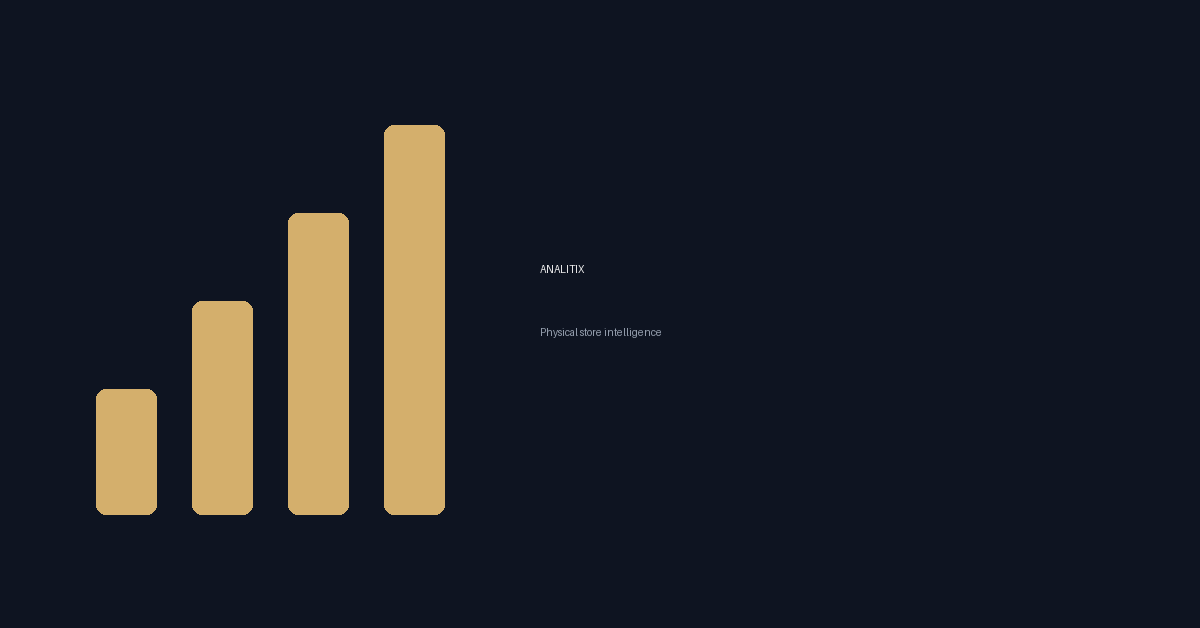
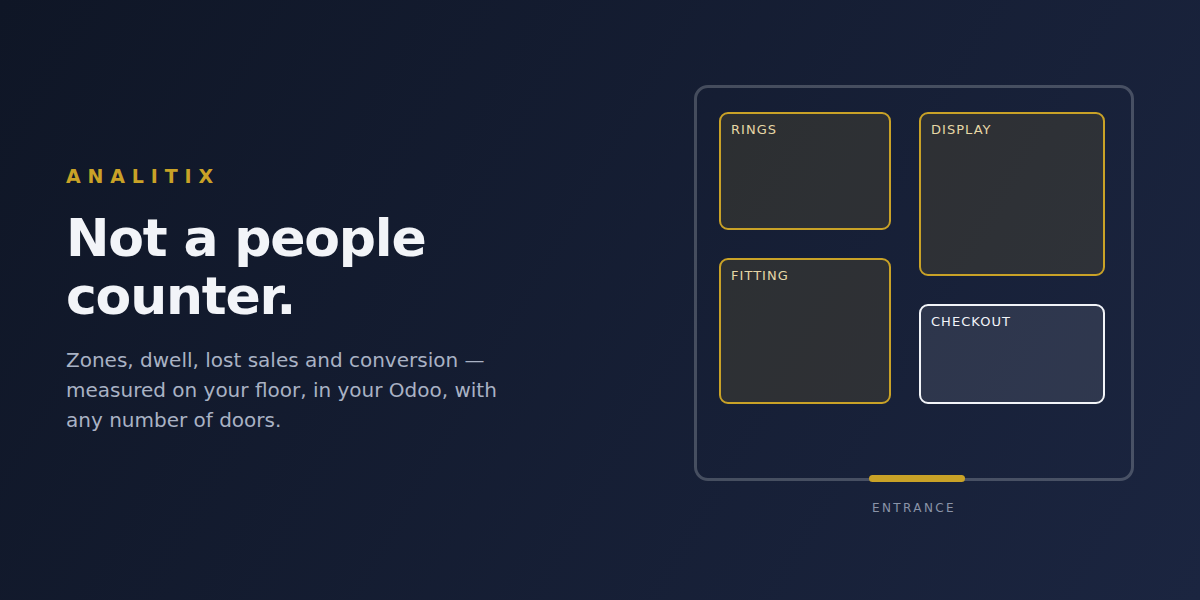
feat(analitix): identidad visual definitiva y precio de lista (tarea 981)
El usuario eligio el ICONO A (el umbral: un arco de puerta con la linea de
conteo cruzando el vano — literalmente lo que mide el producto) y el BANNER 2
(el plano del piso con sus zonas, que muestra el producto en vez de
describirlo).

Las fuentes quedan en tools/brand/ como HTML+CSS, no como un binario de diseno
que solo abre una maquina: se renderizan a PNG con Chromium al tamano final
(512x512 y 1200x600), sin escalar, para que la tipografia no se ensucie. Las
propuestas descartadas se quedan en el archivo a proposito: cuando alguien
pregunte por que se ve asi, las alternativas que se consideraron son la
respuesta.

PRECIO: 499 USD de licencia unica en apps.odoo.com. Referencias del propio
store, categoria Punto de Venta: las suites mas grandes van entre 304 y 500
USD, y una busqueda de «footfall» ahi devuelve UNA sola app — la nuestra,
gratuita. No hay competencia en la categoria.
El negocio recurrente NO esta en ese precio: esta en el plan por tienda de
analitix.store, que es un control de configuracion y no una verificacion de
licencia, para que un problema de cobranza jamas pueda apagarle las camaras a
un cliente. Los datos demo se alinean a las tarifas propuestas (1,890 y 2,890
MXN/mes) para que el informe de ROI cuente una sola historia.

227/227 pruebas en verde en instalacion limpia. Paquete: 134 archivos, 7.0 MB.

diff --git a/analitix/tools/brand/banners.html b/analitix/tools/brand/banners.html
@@ -1,0 +1,114 @@
+<!DOCTYPE html>
+<html><head><meta charset="utf-8"/>
+<style>
+  * { margin:0; padding:0; box-sizing:border-box; }
+  body { background:#fff; font-family:"Helvetica Neue",Arial,sans-serif; }
+  .banner { width:1200px; height:600px; position:relative; overflow:hidden;
+            display:flex; }
+
+  .brand { font-size:19px; letter-spacing:.36em; text-transform:uppercase;
+           font-weight:700; }
+
+  /* ---------------- 1: the number that sells it ------------------- */
+  #b1 { background:#111726; color:#F2F4F8; flex-direction:column;
+        justify-content:space-between; padding:66px 80px 60px; }
+  #b1 .brand { color:#C9A227; }
+  #b1 h1 { font-size:56px; line-height:1.12; margin:24px 0 18px; font-weight:800;
+           letter-spacing:-1.4px; max-width:900px; }
+  #b1 h1 em { font-style:normal; color:#C9A227; }
+  #b1 p { font-size:23px; color:#A9B2C4; max-width:780px; line-height:1.45; }
+  #b1 .stats { display:flex; gap:70px; }
+  #b1 .stat .n { font-size:30px; font-weight:800; color:#C9A227; line-height:1.2; }
+  #b1 .stat .l { font-size:15px; color:#8A94A8; text-transform:uppercase;
+                 letter-spacing:.13em; margin-top:6px; }
+  #b1 .rule { position:absolute; right:-170px; top:-160px; width:600px; height:600px;
+              border:44px solid rgba(201,162,39,.13); border-radius:50%; }
+  #b1 .top { position:relative; z-index:2; }
+
+  /* ---------------- 2: the floor, drawn ---------------------------- */
+  #b2 { background:linear-gradient(120deg,#0F1626 0%,#1B2540 100%); color:#F2F4F8;
+        align-items:center; padding:0 66px; gap:52px; }
+  #b2 .left { flex:1; }
+  #b2 .brand { color:#C9A227; margin-bottom:22px; }
+  #b2 h1 { font-size:52px; line-height:1.12; font-weight:800; letter-spacing:-1.2px; }
+  #b2 p { font-size:20px; color:#A9B2C4; margin-top:20px; line-height:1.5;
+          max-width:460px; }
+  #b2 .planwrap { width:440px; flex:none; }
+  #b2 .plan { position:relative; height:396px;
+              border:3px solid rgba(242,244,248,.22); border-radius:14px; }
+  #b2 .zone { position:absolute; border-radius:9px; border:2px solid #C9A227;
+              background:rgba(201,162,39,.13); font-size:13px; color:#E7D7A6;
+              padding:8px 10px; letter-spacing:.08em; }
+  #b2 .z1 { left:22px; top:24px; width:172px; height:118px; }
+  #b2 .z2 { left:222px; top:24px; width:186px; height:164px; }
+  #b2 .z3 { left:22px; top:170px; width:172px; height:146px; }
+  #b2 .z4 { left:222px; top:216px; width:186px; height:100px;
+            border-color:#F2F4F8; background:rgba(242,244,248,.10); color:#F2F4F8; }
+  #b2 .door { position:absolute; left:172px; bottom:-4px; width:96px; height:7px;
+              background:#C9A227; border-radius:4px; }
+  #b2 .doorlbl { margin-top:20px; text-align:center; font-size:12px; color:#8A94A8;
+                 letter-spacing:.2em; text-transform:uppercase; }
+
+  /* ---------------- 3: quiet and typographic ----------------------- */
+  #b3 { background:#F6F3EC; color:#111726; flex-direction:column;
+        justify-content:center; padding:0 92px 16px; }
+  #b3 .brand { color:#8A6E27; }
+  #b3 h1 { font-size:56px; line-height:1.1; margin:26px 0 22px; font-weight:800;
+           letter-spacing:-1.4px; max-width:940px; }
+  #b3 p { font-size:22px; color:#4A5265; max-width:780px; line-height:1.5; }
+  #b3 .chips { display:flex; gap:13px; margin-top:38px; }
+  #b3 .chip { border:2px solid #C9A227; color:#8A6E27; border-radius:999px;
+              padding:9px 20px; font-size:15px; font-weight:600; }
+  #b3 .bar { position:absolute; left:0; bottom:0; height:16px; width:100%;
+             background:linear-gradient(90deg,#C9A227 0%,#8A6E27 100%); }
+</style></head>
+<body>
+
+<div class="banner" id="b1">
+  <div class="rule"></div>
+  <div class="top">
+    <div class="brand">Analitix</div>
+    <h1>Your POS says what you sold.<br/>This says <em>who you didn't sell to</em>.</h1>
+    <p>Store intelligence on Odoo: visitors, conversion, and walk-outs spotted
+       while there is still time to do something about them.</p>
+  </div>
+  <div class="stats">
+    <div class="stat"><div class="n">Conversion</div><div class="l">tickets ÷ visitors</div></div>
+    <div class="stat"><div class="n">Walk-outs</div><div class="l">seen, and rescued</div></div>
+    <div class="stat"><div class="n">No images</div><div class="l">ever stored</div></div>
+  </div>
+</div>
+
+<div class="banner" id="b2">
+  <div class="left">
+    <div class="brand">Analitix</div>
+    <h1>Not a people counter.</h1>
+    <p>Zones, dwell, lost sales and conversion — measured on your floor, in your
+       Odoo, with any number of doors.</p>
+  </div>
+  <div class="planwrap">
+    <div class="plan">
+      <div class="zone z1">RINGS</div>
+      <div class="zone z2">DISPLAY</div>
+      <div class="zone z3">FITTING</div>
+      <div class="zone z4">CHECKOUT</div>
+      <div class="door"></div>
+    </div>
+    <div class="doorlbl">Entrance</div>
+  </div>
+</div>
+
+<div class="banner" id="b3">
+  <div class="brand">Analitix</div>
+  <h1>Eleven people waited.<br/>Nine were never spoken to.</h1>
+  <p>Physical store intelligence for Odoo 19 — conversion against POS, lost-sale
+     alerts, and a monthly report the owner actually reads.</p>
+  <div class="chips">
+    <div class="chip">Any number of doors</div>
+    <div class="chip">No image ever stored</div>
+    <div class="chip">Edge, not cloud</div>
+  </div>
+  <div class="bar"></div>
+</div>
+
+</body></html>

diff --git a/analitix/tools/brand/icons.html b/analitix/tools/brand/icons.html
@@ -1,0 +1,58 @@
+<!DOCTYPE html>
+<html><head><meta charset="utf-8"/>
+<style>
+  * { margin:0; padding:0; box-sizing:border-box; }
+  body { background:#fff; }
+  .icon { width:512px; height:512px; position:relative; overflow:hidden;
+          font-family:"Helvetica Neue",Arial,sans-serif; }
+
+  /* ---- A: doorway + threshold line -------------------------------- */
+  #a { background:#111726; }
+  #a .arch { position:absolute; left:126px; top:104px; width:260px; height:300px;
+             border:34px solid #C9A227; border-bottom:0;
+             border-radius:130px 130px 0 0; }
+  #a .line { position:absolute; left:74px; top:372px; width:364px; height:22px;
+             background:#F2F4F8; border-radius:11px; }
+  #a .dot  { position:absolute; width:46px; height:46px; border-radius:50%;
+             background:#F2F4F8; left:233px; top:200px; }
+
+  /* ---- B: threshold with rising bars ------------------------------ */
+  #b { background:linear-gradient(160deg,#16203A 0%,#0C1120 100%); }
+  #b .bar { position:absolute; bottom:150px; width:66px; border-radius:8px 8px 0 0;
+            background:#C9A227; }
+  #b .b1 { left:118px; height:96px;  background:#7B6528; }
+  #b .b2 { left:200px; height:168px; background:#A7862F; }
+  #b .b3 { left:282px; height:242px; }
+  #b .floor { position:absolute; left:82px; bottom:132px; width:348px; height:18px;
+              background:#F2F4F8; border-radius:9px; }
+  #b .head { position:absolute; left:355px; bottom:392px; width:56px; height:56px;
+             border-radius:50%; background:#F2F4F8; }
+
+  /* ---- C: the eye that counts (aperture) -------------------------- */
+  #c { background:#0E1524; }
+  #c .ring { position:absolute; left:96px; top:96px; width:320px; height:320px;
+             border-radius:50%; border:30px solid #C9A227; }
+  #c .pupil{ position:absolute; left:196px; top:196px; width:120px; height:120px;
+             border-radius:50%; background:#F2F4F8; }
+  #c .tick { position:absolute; background:#C9A227; border-radius:4px; }
+  #c .t1 { left:246px; top:30px;  width:20px; height:48px; }
+  #c .t2 { left:246px; top:434px; width:20px; height:48px; }
+  #c .t3 { left:30px;  top:246px; width:48px; height:20px; }
+  #c .t4 { left:434px; top:246px; width:48px; height:20px; }
+
+  /* ---- D: monogram A with a counting line ------------------------- */
+  #d { background:#C9A227; }
+  #d .glyph { position:absolute; left:0; right:0; top:64px; display:flex;
+              align-items:flex-start; justify-content:center; font-size:300px;
+              font-weight:800; color:#111726; letter-spacing:-10px; line-height:1; }
+  #d .line { position:absolute; left:96px; bottom:88px; width:320px; height:26px;
+             background:#111726; border-radius:13px; }
+  #d .dot  { position:absolute; left:352px; top:92px; width:60px; height:60px;
+             border-radius:50%; background:#111726; }
+</style></head>
+<body>
+  <div class="icon" id="a"><div class="arch"></div><div class="dot"></div><div class="line"></div></div>
+  <div class="icon" id="b"><div class="bar b1"></div><div class="bar b2"></div><div class="bar b3"></div><div class="head"></div><div class="floor"></div></div>
+  <div class="icon" id="c"><div class="ring"></div><div class="pupil"></div><div class="tick t1"></div><div class="tick t2"></div><div class="tick t3"></div><div class="tick t4"></div></div>
+  <div class="icon" id="d"><div class="glyph">A</div><div class="line"></div><div class="dot"></div></div>
+</body></html>

diff --git a/analitix/__manifest__.py b/analitix/__manifest__.py
@@ -225,7 +225,15 @@ only receives JSON.
     "images": [
         "static/description/banner.png",
     ],
-    "price": 0.00,
+    # One-time module licence on apps.odoo.com. Positioned at the top of the
+    # Point of Sale category — the largest suites there sit at 300-500 USD and
+    # none of them does this — while staying under the 500 line where a
+    # self-serve buyer stops and asks for a quote instead.
+    #
+    # The recurring business is not here: it is the per-store plan on
+    # analitix.store, which is a configuration control rather than a licence
+    # check, so a billing problem can never switch a customer's cameras off.
+    "price": 499.00,
     "currency": "USD",
     "installable": True,
     "application": True,

diff --git a/analitix/tools/brand/README.md b/analitix/tools/brand/README.md
@@ -1,0 +1,35 @@
+# Visual identity source
+
+`icons.html` and `banners.html` are the *source* of the published icon and
+banner. They are plain HTML and CSS, rendered to PNG with headless Chromium —
+no binary design file that only one machine can open, and no dependency on a
+font or an asset nobody can find in a year.
+
+Chosen for the listing: **icon A** (the doorway with the counting line across
+it — literally what the product measures) and **banner 2** (the floor plan with
+its zones, which shows the product instead of describing it).
+
+The other proposals are deliberately left in the files. When somebody asks
+"why does it look like this", the alternatives that were considered are the
+answer, and regenerating a variant is a two-line edit rather than a redesign.
+
+## Regenerating
+
+```bash
+python - <<'PY'
+from playwright.sync_api import sync_playwright
+base = "file://" + __import__("os").getcwd() + "/"
+with sync_playwright() as p:
+    b = p.chromium.launch()
+    pg = b.new_page(viewport={"width": 1280, "height": 900})
+    pg.goto(base + "icons.html")
+    pg.locator("#a").screenshot(path="../../static/description/icon.png")
+    pg.goto(base + "banners.html")
+    pg.locator("#b2").screenshot(path="../../static/description/banner.png")
+    b.close()
+PY
+```
+
+Sizes are fixed in the CSS: the icon element is 512×512 and each banner is
+1200×600, which is what apps.odoo.com expects. Do not scale the output — render
+at the target size so the type stays crisp.
